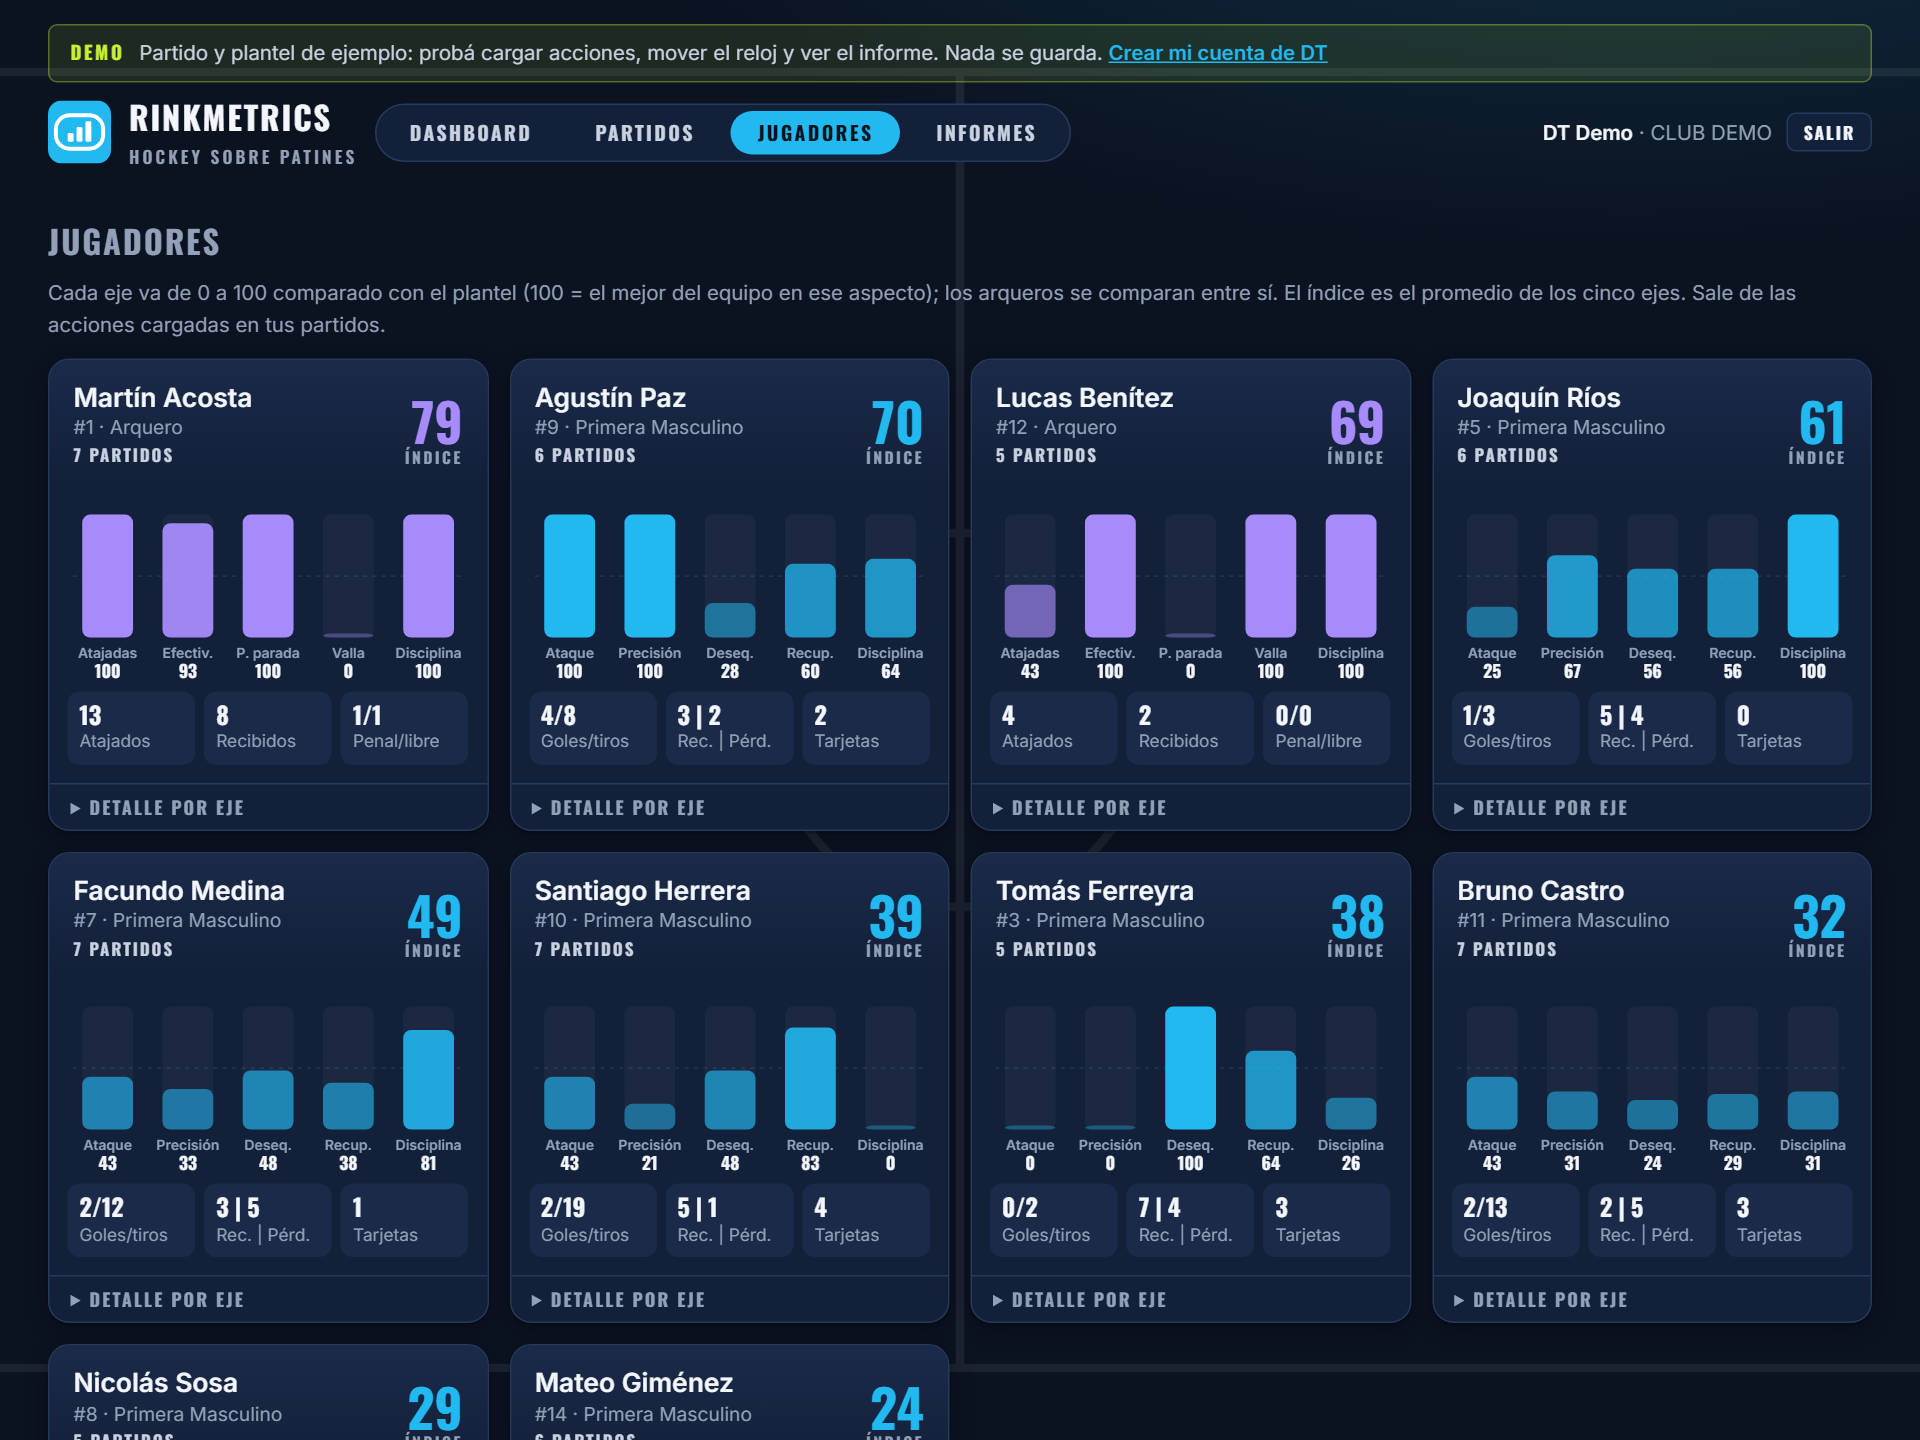
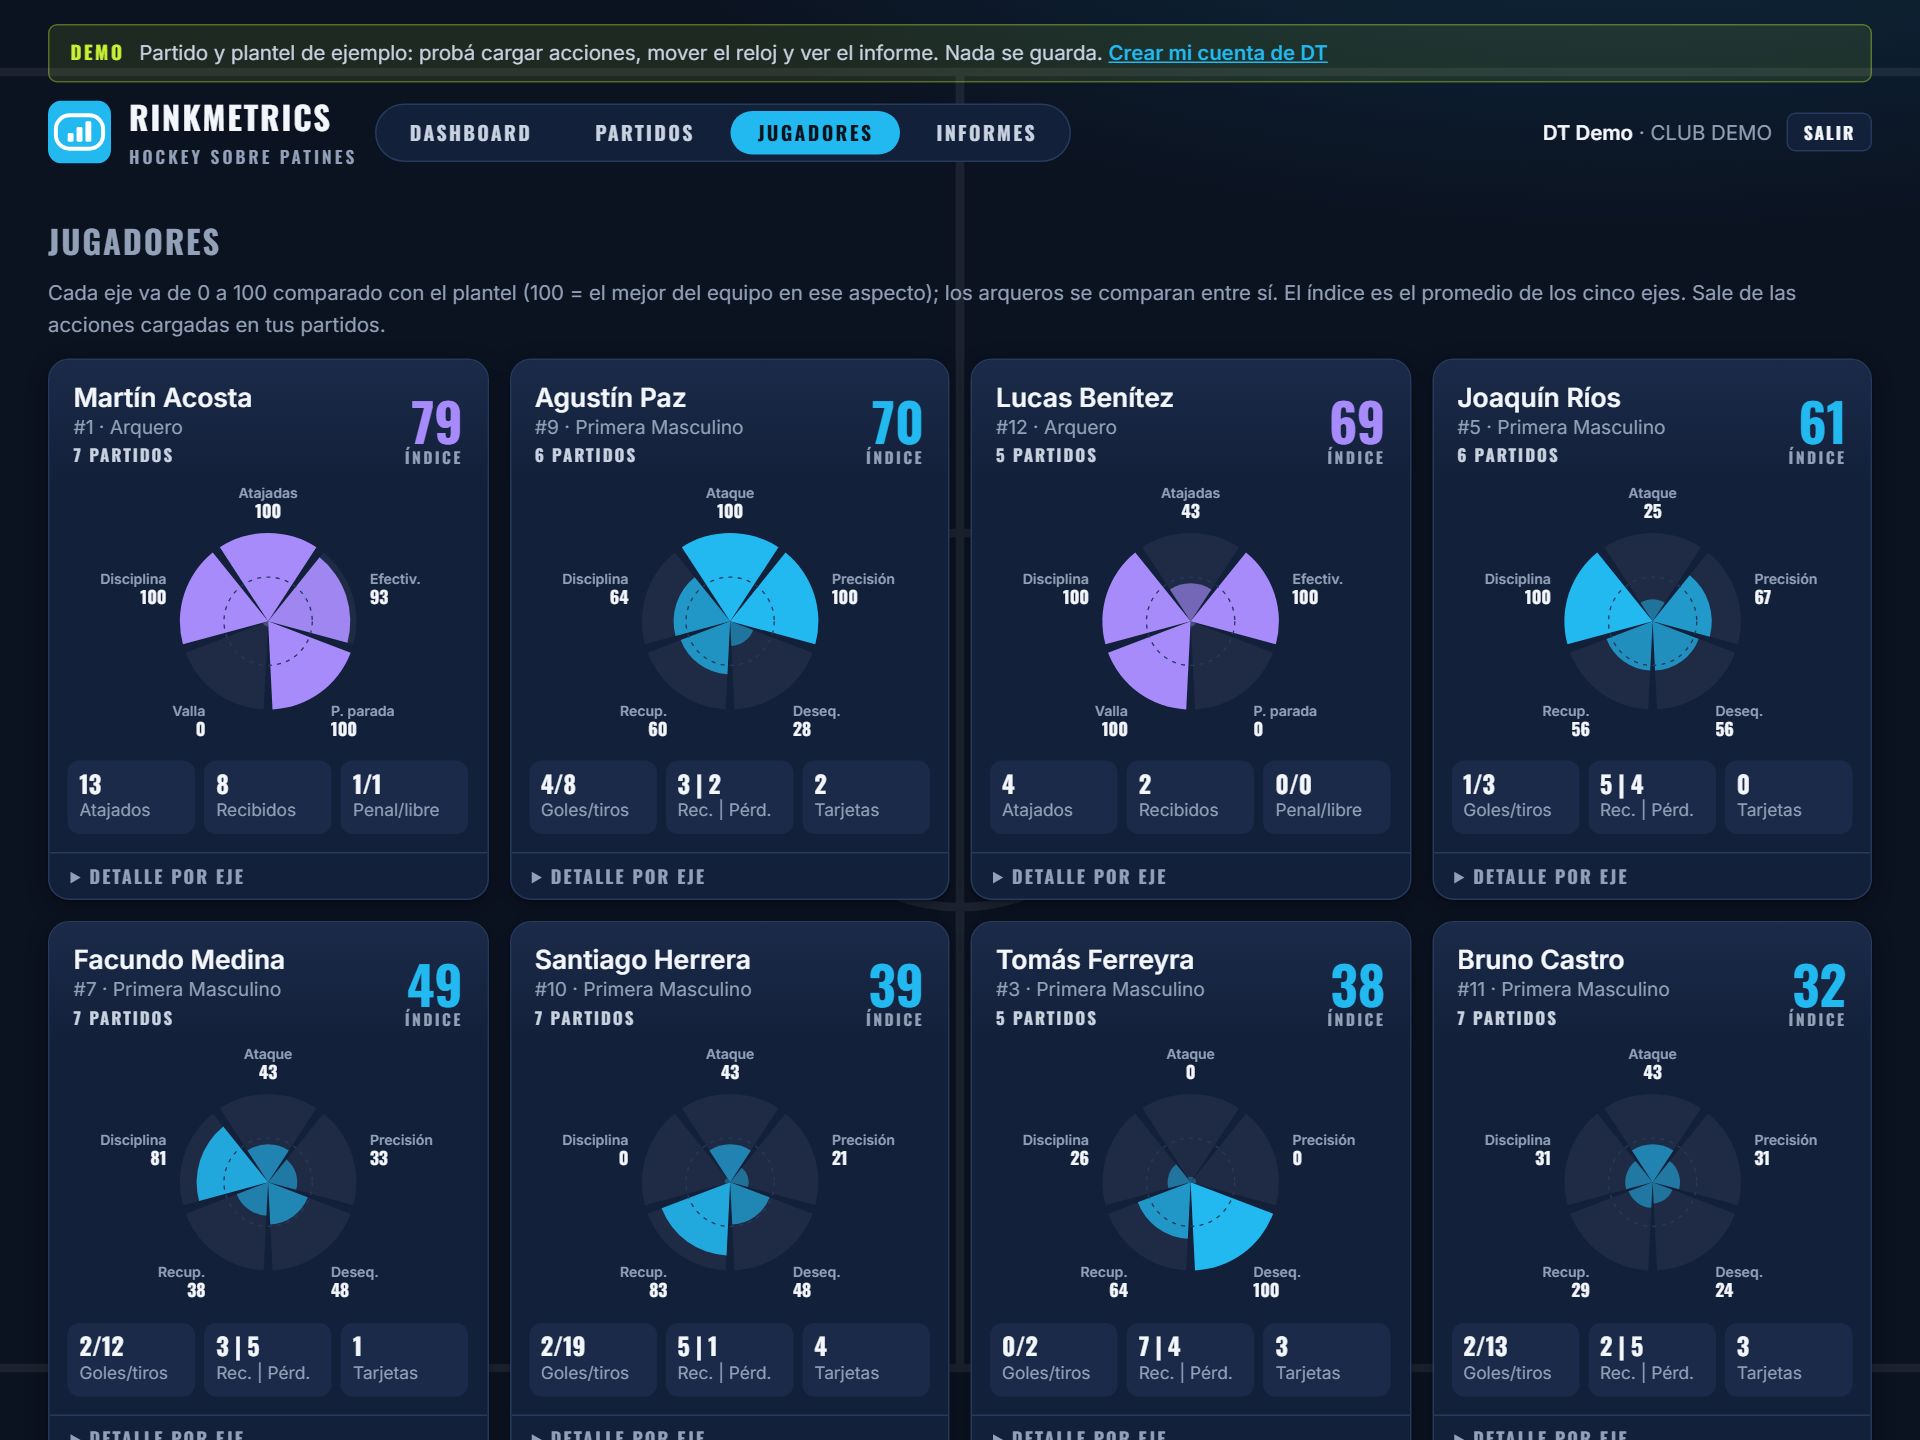
Ficha del jugador: rueda de cinco ejes en lugar del ecualizador
Una porción por eje, más larga e intensa cuanto mejor el puntaje; el círculo
punteado marca el 50. Capturas, galería y README al día.

diff --git a/src/main/resources/static/js/dt-fichas.js b/src/main/resources/static/js/dt-fichas.js
@@ -160,25 +160,32 @@ const DtFichas = (() => {
     const esc = s => String(s).replace(/[&<>"]/g, c => ({"&": "&amp;", "<": "&lt;", ">": "&gt;", '"': "&quot;"}[c]));
 
     /**
-     * Ecualizador de la ficha: una columna por eje, con la altura según el puntaje (0 a 100) y el número debajo. Cuanto
-     * más alto, más brillante la columna; la línea punteada marca el 50.
+     * Rueda de la ficha: una porción por eje, que arranca arriba y sigue en el sentido del reloj. El largo de cada
+     * porción es el puntaje (0 a 100) y, cuanto más alto, más intenso el color; el círculo punteado marca el 50.
      */
-    function ecualizador(ejesFicha, arquero) {
-        const W = 300, base = 110, alto = 92, ancho = 38, paso = W / ejesFicha.length;
+    function rueda(ejesFicha, arquero) {
+        const W = 300, H = 200, cx = W / 2, cy = 100, R = 66, n = ejesFicha.length, hueco = 0.05;
         const tono = arquero ? [167, 139, 250] : [34, 184, 240];
         const titulo = ejesFicha.map(e => `${e.nombre} ${e.puntaje}`).join(", ");
-        const columnas = ejesFicha.map((e, i) => {
-            const x = i * paso + (paso - ancho) / 2;
-            const h = Math.max(3, alto * e.puntaje / 100);
+        const punto = (a, r) => [(cx + r * Math.cos(a)).toFixed(1), (cy + r * Math.sin(a)).toFixed(1)];
+        const porcion = (a0, a1, r) => {
+            const [x0, y0] = punto(a0, r), [x1, y1] = punto(a1, r);
+            return `M${cx},${cy}L${x0},${y0}A${r},${r} 0 0 1 ${x1},${y1}Z`;
+        };
+        const partes = ejesFicha.map((e, i) => {
+            const a0 = -Math.PI / 2 - Math.PI / n + i * 2 * Math.PI / n + hueco, a1 = a0 + 2 * Math.PI / n - 2 * hueco;
+            const medio = (a0 + a1) / 2, r = Math.max(4, R * e.puntaje / 100);
             const brillo = (0.35 + 0.65 * e.puntaje / 100).toFixed(2);
-            return `<rect class="fondo" x="${x.toFixed(1)}" y="${base - alto}" width="${ancho}" height="${alto}" rx="6"/>
-                <rect x="${x.toFixed(1)}" y="${(base - h).toFixed(1)}" width="${ancho}" height="${h.toFixed(1)}" rx="6"
-                    fill="rgba(${tono.join(",")},${brillo})"><title>${esc(e.nombre)}: ${e.puntaje} · ${esc(e.texto)}</title></rect>
-                <text class="nombre" x="${(x + ancho / 2).toFixed(1)}" y="${base + 15}">${esc(e.corto)}</text>
-                <text class="puntaje" x="${(x + ancho / 2).toFixed(1)}" y="${base + 30}">${e.puntaje}</text>`;
+            const [lx, ly] = punto(medio, R + 14).map(Number);
+            const ancla = Math.cos(medio) > 0.3 ? "start" : Math.cos(medio) < -0.3 ? "end" : "middle";
+            const y = Math.sin(medio) < -0.5 ? ly - 12 : Math.sin(medio) > 0.5 ? ly + 6 : ly - 3;
+            return `<path class="fondo" d="${porcion(a0, a1, R)}"/>
+                <path d="${porcion(a0, a1, r)}" fill="rgba(${tono.join(",")},${brillo})"><title>${esc(e.nombre)}: ${e.puntaje} · ${esc(e.texto)}</title></path>
+                <text class="nombre" x="${lx}" y="${y.toFixed(1)}" text-anchor="${ancla}">${esc(e.corto)}</text>
+                <text class="puntaje" x="${lx}" y="${(y + 15).toFixed(1)}" text-anchor="${ancla}">${e.puntaje}</text>`;
         }).join("");
-        return `<svg class="ecualizador" viewBox="0 0 ${W} 146" role="img" aria-label="${esc(titulo)}"><title>${esc(titulo)}</title>
-            <line class="guia" x1="4" y1="${base - alto / 2}" x2="${W - 4}" y2="${base - alto / 2}"/>${columnas}</svg>`;
+        return `<svg class="rueda" viewBox="0 0 ${W} ${H}" role="img" aria-label="${esc(titulo)}"><title>${esc(titulo)}</title>
+            ${partes}<circle class="guia" cx="${cx}" cy="${cy}" r="${R / 2}"/></svg>`;
     }
 
     /** Estado de los partidos: una barra por estado. */
@@ -207,5 +214,5 @@ const DtFichas = (() => {
                 <text class="eje" x="${x.toFixed(1)}" y="${H - 8}" text-anchor="middle">${meses[i].etiqueta}</text>`).join("")}</svg>`;
     }
 
-    return {calcular, dashboard, ecualizador, barrasEstado, lineaMeses};
+    return {calcular, dashboard, rueda, barrasEstado, lineaMeses};
 })();

diff --git a/src/main/resources/static/css/app.css b/src/main/resources/static/css/app.css
@@ -574,13 +574,13 @@ nav.secciones a { white-space: nowrap; }
 .ficha.arquero .ficha-indice b { color: #a78bfa; }
 .ficha.sin-datos .ficha-indice b { color: var(--muted); }
 .ficha-indice small { display: block; margin-top: 2px; font: 700 .65rem/1 var(--display); letter-spacing: .16em; text-transform: uppercase; }
-.ficha-ecualizador { padding: 6px 12px 0; }
-.ficha-ecualizador .dt-vacio { padding: 30px 0; text-align: center; }
-.ecualizador { width: 100%; height: auto; display: block; }
-.ecualizador .fondo { fill: rgba(255, 255, 255, .04); }
-.ecualizador .guia { stroke: var(--line); stroke-width: 1; stroke-dasharray: 3 4; }
-.ecualizador .nombre { font: 600 10.5px var(--body); fill: var(--muted); text-anchor: middle; }
-.ecualizador .puntaje { font: 700 13px var(--display); fill: var(--ink); text-anchor: middle; }
+.ficha-rueda { padding: 4px 12px 0; }
+.ficha-rueda .dt-vacio { padding: 30px 0; text-align: center; }
+.rueda { width: 100%; max-width: 340px; height: auto; display: block; margin: 0 auto; }
+.rueda .fondo { fill: rgba(255, 255, 255, .05); }
+.rueda .guia { fill: none; stroke: var(--line); stroke-width: 1; stroke-dasharray: 3 4; }
+.rueda .nombre { font: 600 10.5px var(--body); fill: var(--muted); }
+.rueda .puntaje { font: 700 13px var(--display); fill: var(--ink); }
 .ficha-datos { display: grid; grid-template-columns: repeat(3, minmax(0, 1fr)); gap: 6px; padding: 4px 12px 12px; }
 .ficha-datos div { padding: 6px 8px; border-radius: 8px; background: var(--panel-2); }
 .ficha-datos b { display: block; font: 700 1rem/1.2 var(--display); color: var(--ink); }

diff --git a/src/main/resources/static/js/dt.js b/src/main/resources/static/js/dt.js
@@ -755,7 +755,7 @@
         }
     }
 
-    /** Ficha del jugador: encabezado con el índice, ecualizador de los cinco ejes, datos clave y el detalle por eje. */
+    /** Ficha del jugador: encabezado con el índice, rueda de los cinco ejes, datos clave y el detalle por eje. */
     function ficha(f, equipo) {
         const card = el("article", "ficha" + (f.arquero ? " arquero" : "") + (f.indice == null ? " sin-datos" : ""));
         const head = el("header", "ficha-head");
@@ -766,9 +766,9 @@
         const idx = el("div", "ficha-indice");
         idx.append(el("b", null, f.indice == null ? "–" : String(f.indice)), el("small", null, "Índice"));
         head.append(quien, idx);
-        const graf = el("div", "ficha-ecualizador");
+        const graf = el("div", "ficha-rueda");
         if (f.indice == null) graf.append(el("p", "dt-vacio", "Sin acciones cargadas todavía."));
-        else graf.innerHTML = DtFichas.ecualizador(f.ejes, f.arquero);
+        else graf.innerHTML = DtFichas.rueda(f.ejes, f.arquero);
         const e = Object.fromEntries(f.ejes.map(x => [x.clave, x]));
         const datos = f.arquero
             ? [[`${e.efectividad.a}`, "Atajados"], [`${e.efectividad.b}`, "Recibidos"],

diff --git a/src/main/resources/static/dt-inicio.html b/src/main/resources/static/dt-inicio.html
@@ -97,7 +97,7 @@
                 <figcaption><b>Dashboard general</b> Totales, estado de los partidos, evolución mes a mes y próximos partidos.</figcaption>
             </figure>
             <figure>
-                <img src="/img/demo/jugadores.png" alt="Fichas de los jugadores: índice, ecualizador de cinco ejes y datos clave" loading="lazy" width="1920" height="1440">
+                <img src="/img/demo/jugadores.png" alt="Fichas de los jugadores: índice, rueda de cinco ejes y datos clave" loading="lazy" width="1920" height="1440">
                 <figcaption><b>Ficha de cada jugador</b> Índice y cinco ejes comparados con el plantel; los arqueros, con sus propios ejes.</figcaption>
             </figure>
             <figure>

diff --git a/README.md b/README.md
@@ -251,7 +251,7 @@ perfil decide de dónde salen los clubes, las categorías, los jugadores y los i
   - **Dashboard general:** jugadores del plantel, partidos cargados y del mes; estado de los partidos (programados =
     creados con fecha futura y sin iniciar, en juego, finalizados); partidos jugados por mes (los últimos 6) y los
     próximos partidos.
-  - **Jugadores:** la ficha de cada uno, con índice (0 a 100) y un ecualizador de cinco ejes (una columna por eje) comparados con el plantel
+  - **Jugadores:** la ficha de cada uno, con índice (0 a 100) y una rueda de cinco ejes (una porción por eje, más larga cuanto mejor) comparados con el plantel
     (100 = el mejor del equipo): ataque, precisión, desequilibrio (faltas recibidas), recuperación (balance con las
     pérdidas) y disciplina. Los arqueros se comparan entre sí con sus ejes: atajadas, efectividad, pelota parada,
     valla y disciplina. Todo se calcula en el navegador (`js/dt-fichas.js`) con `GET /api/dt/acciones` (las acciones
